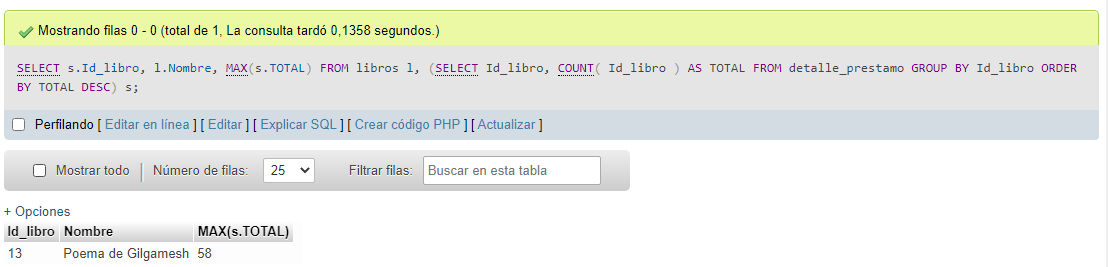
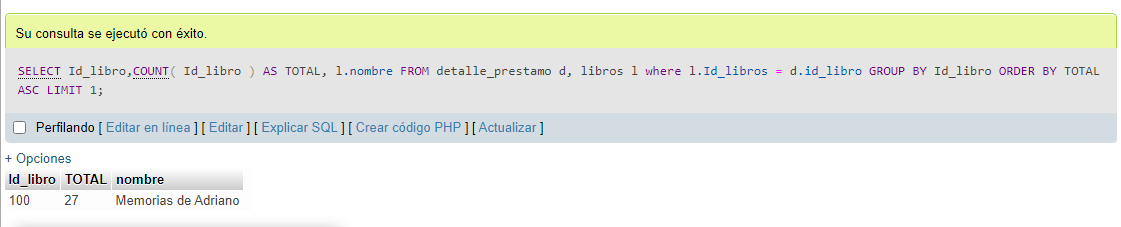
actualizacion msql

Changed region(s): [[0.0, 0.0308, 1.0, 0.9868]]

diff --git a/componentes/SQL/sql_004.html b/componentes/SQL/sql_004.html
@@ -197,8 +197,9 @@
 
 
             <h3 class="fuenteSeis t1 text-shadow-a">
-                SELECT s.Id_libro, l.Nombre, MAX(s.TOTAL)  FROM libros l,<br>
-                (SELECT Id_libro, COUNT( Id_libro ) AS TOTAL FROM detalle_prestamo GROUP BY Id_libro ORDER BY TOTAL DESC) s
+                SELECT Id_libro,COUNT( Id_libro )<br>
+                AS TOTAL, l.nombre FROM detalle_prestamo d,<br>
+                libros l where l.Id_libros = d.id_libro GROUP BY Id_libro ORDER BY TOTAL DESC LIMIT 1;
             </h3>
             <p class="fuenteUno text-light fw-3 mb-0 mb-2">M. Nombre del  libro que más se ha prestado.</p>
             <img src="../../styles/assets/categorias/SQL/sql_004/libromasprestado.png" alt="libromasprestado.png" class="img-fluid sombraUno">
@@ -206,11 +207,12 @@
 
 
             <h3 class="fuenteSeis t1 text-shadow-a">
-                SELECT s.Id_libro, l.Nombre, MAX(s.TOTAL)  FROM libros l,<br>
-                (SELECT Id_libro, COUNT( Id_libro ) AS TOTAL FROM detalle_prestamo GROUP BY Id_libro ORDER BY TOTAL ASC) s
+                SELECT Id_libro,COUNT( Id_libro )<br>
+                AS TOTAL, l.nombre FROM detalle_prestamo d,<br>
+                libros l where l.Id_libros = d.id_libro GROUP BY Id_libro ORDER BY TOTAL ASC LIMIT 1;
             </h3>
             <p class="fuenteUno text-light fw-3 mb-0 mb-2">L. Nombre del  libro que menos se ha prestado.</p>
-            <img src="../../styles/assets/categorias/SQL/sql_004/libromasprestado.png" alt="libromasprestado.png" class="img-fluid sombraUno">
+            <img src="../../styles/assets/categorias/SQL/sql_004/libromenosprestado.png" alt="libromasprestado.png" class="img-fluid sombraUno">
             <div class="espacio"></div>
 
 

diff --git a/componentes/shared/temp-sena.html b/componentes/shared/temp-sena.html
@@ -500,7 +500,17 @@
                 <p class="fuenteSeis fs-17 text-light mb-0 text-center fw-6 fs-60 mb-3">TAREAS</p>
                 <ul>
                     <li class="text-light mb-5">
-                        <p class="fuenteSeis fs-30 text-primary mb-1 lh-30">Investigación y Mockups (Lunes 30 de agosto)</p>
+                        <p class="fuenteSeis fs-30 text-danger mb-1 lh-30">
+                            <del>
+                            Subir evidencias trabajo metodologías ágiles de 2 grupos  (Viernes 10 de septiembre)
+                            </del>
+                        </p>
+                        <p class="fuenteUno text-light fw-3">
+                            Adjuntar el trabajo realizado emulando la aplicación correspondiente a cada equipo, indicar claramente cuales son los integrantes de grupo y adjuntar en un solo documento todos los puntos relacionados -investigación de la problemática -organización y distribución del equipo de trabajo por medio de la plataforma trello -representación grafica del posible aplicativo que solucione la problemática -indicación de roles de los integrantes del grupo.
+                        </p>
+                    </li>
+                    <li class="text-light mb-5">
+                        <p class="fuenteSeis fs-30 text-danger mb-1 lh-30"><del>Investigación y Mockups (Lunes 30 de agosto)</del></p>
                         <p class="fuenteUno text-light fw-3">
                             Utilizando la plataforma de trello organizar integrantes del equipo y dividir tareas para investigación y los mockups de las aplicacion propuestas por el profe.
                         </p>
